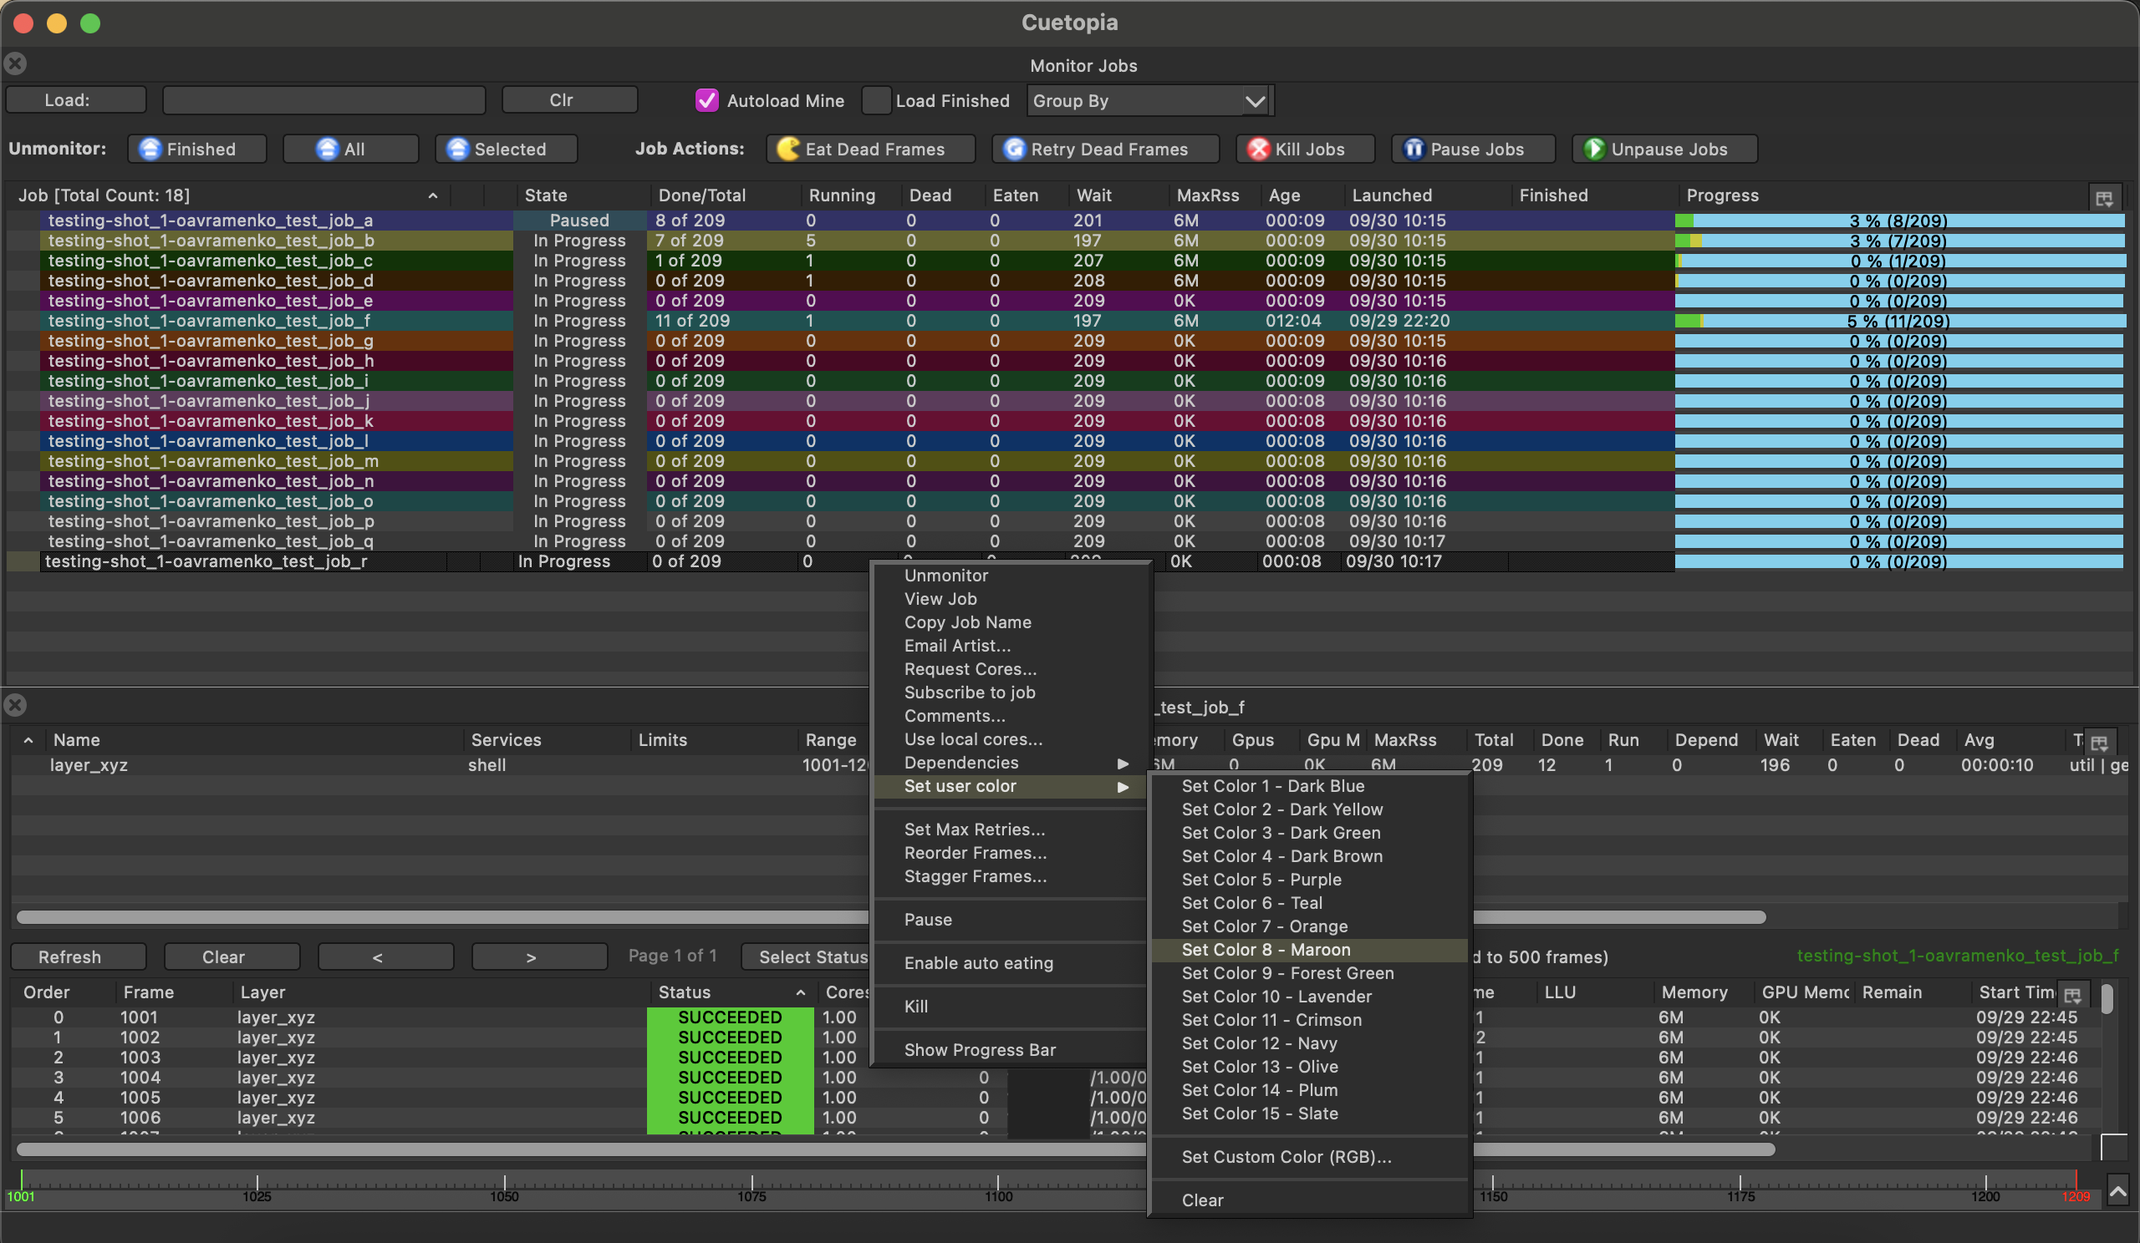
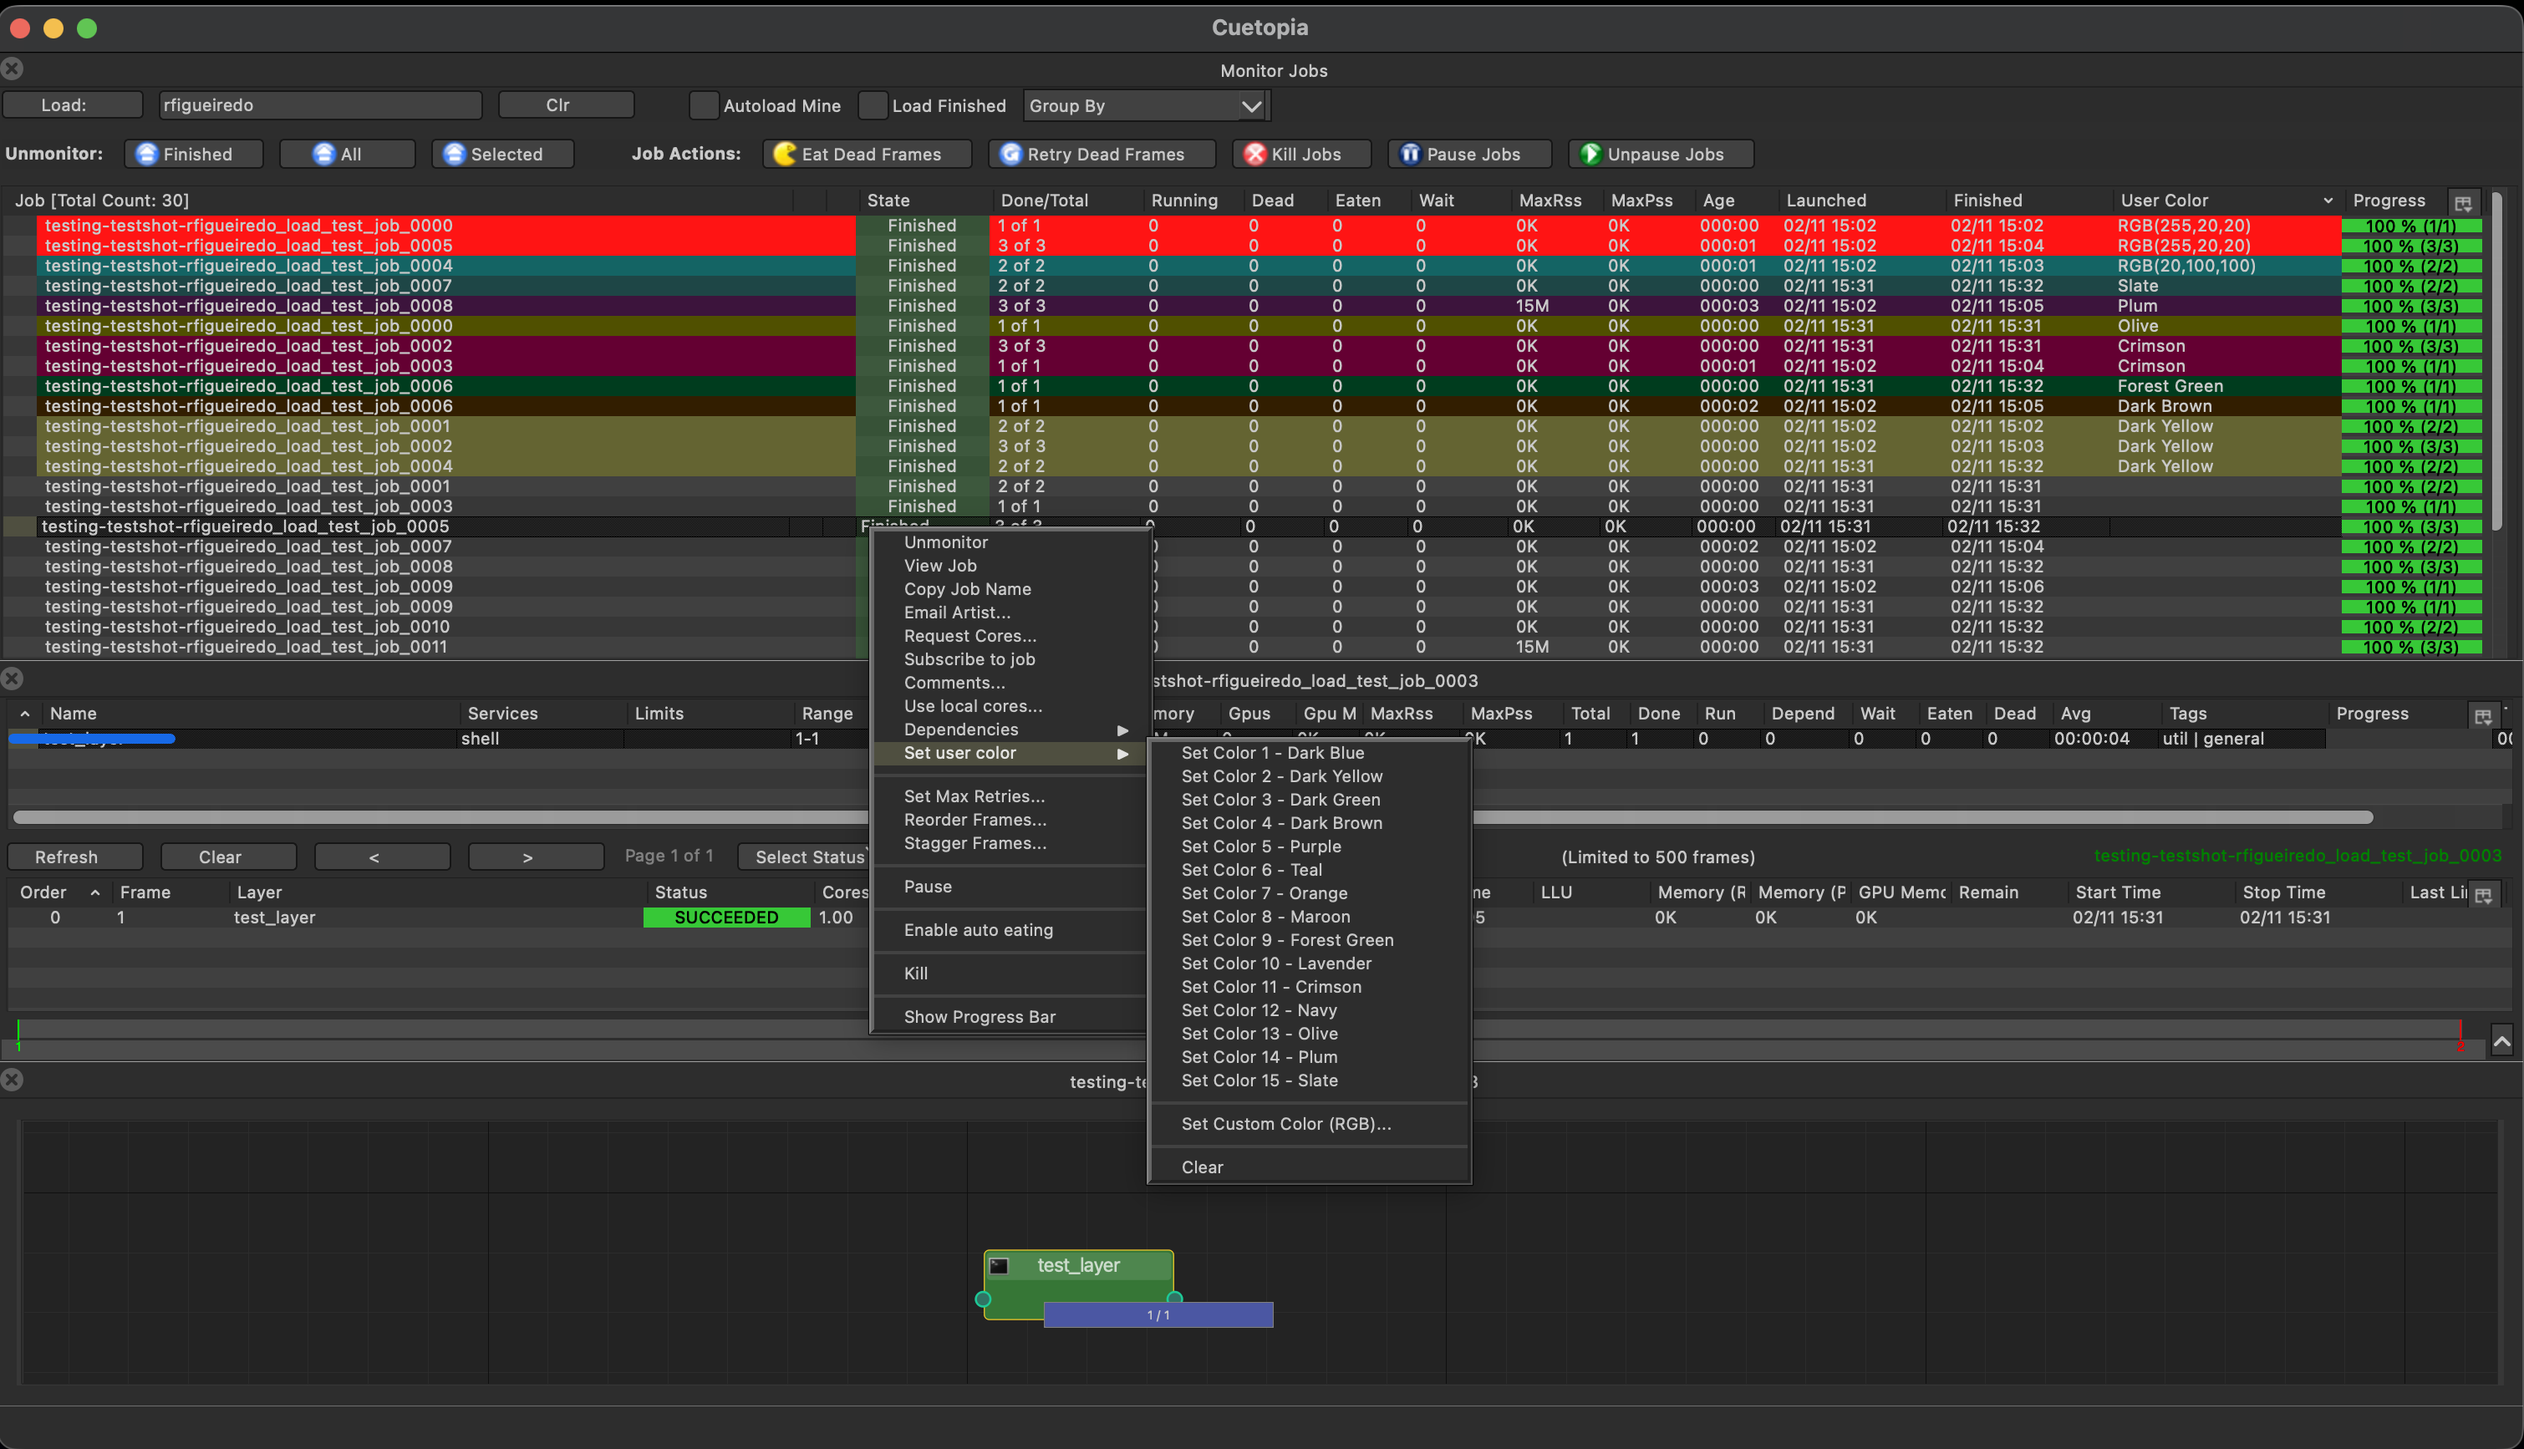
[cuegui] Add User Color sorting in Cuetopia job monitor (#2176)
**Link the Issue(s) this Pull Request is related to.**
- https://github.com/AcademySoftwareFoundation/OpenCue/issues/2177

**Summarize your change.**

Add a new sortable "User Color" column to the Job Monitor (Cuetopia)
that displays and enables sorting of jobs by their user-assigned colors.

Features:
- New "User Color" column shows preset color names or custom RGB format
- Supports all 15 preset colors (Dark Blue, Dark Yellow, Dark Green,
etc.)
- Custom colors display as "RGB(R,G,B)" (e.g., RGB(255,20,20))
- Smart sorting: uncolored jobs first > preset colors 1-15 > custom
colors
- Helper methods _getUserColorName() and _getUserColorSortKey() manage
color-to-display-name and color-to-numeric-key mappings

The User Color column appears before the Progress bar column for easy
access.

Documentation:
- Updated cuetopia-monitoring-guide.md with sorting explanation
- Added User Color column to job table columns reference
- Documented RGB format display for custom colors
- Included sort order behavior in new "Sorting by User Color" section

Updated docs images:
job_user_colors_set_user_color_with_15_color_options.png and
job_user_colors_set_user_color_with_set_custom_color.png

This allows users who frequently use "Set user color" to easily organize
and filter large job lists without manual scrolling or additional
filtering.

diff --git a/cuegui/cuegui/JobMonitorTree.py b/cuegui/cuegui/JobMonitorTree.py
@@ -93,6 +93,25 @@ class JobMonitorTree(cuegui.AbstractTreeWidget.AbstractTreeWidget):
     __groupByMode = "Clear"  # Options: "Clear", "Dependent", "Show-Shot", "Show-Shot-Username"
     view_object = QtCore.Signal(object)
 
+    # Unified color presets: RGB tuple -> (color_name, sort_key)
+    _USER_COLOR_PRESETS = {
+        (50, 50, 100): ("Dark Blue", 1),
+        (100, 100, 50): ("Dark Yellow", 2),
+        (0, 50, 0): ("Dark Green", 3),
+        (50, 30, 0): ("Dark Brown", 4),
+        (80, 0, 80): ("Purple", 5),
+        (0, 80, 80): ("Teal", 6),
+        (100, 50, 0): ("Orange", 7),
+        (70, 0, 35): ("Maroon", 8),
+        (0, 60, 30): ("Forest Green", 9),
+        (90, 60, 90): ("Lavender", 10),
+        (100, 0, 50): ("Crimson", 11),
+        (0, 50, 100): ("Navy", 12),
+        (80, 80, 0): ("Olive", 13),
+        (60, 20, 60): ("Plum", 14),
+        (30, 70, 70): ("Slate", 15),
+    }
+
     def __init__(self, parent):
         self.ticksWithoutUpdate = 0
 
@@ -171,7 +190,12 @@ class JobMonitorTree(cuegui.AbstractTreeWidget.AbstractTreeWidget):
                                          or ""),
                        sort=lambda job: job.data.stop_time,
                        tip="The time when the job ended.")
-        self.addColumn("Progress", 0, id=15,
+        self.addColumn("User Color", 100, id=15,
+                       data=lambda job: self._getUserColorName(cuegui.Utils.getObjectKey(job)),
+                       sort=lambda job: self._getUserColorSortKey(cuegui.Utils.getObjectKey(job)),
+                       tip="User-assigned color for this job.\n"
+                           "Click column header to sort by color.")
+        self.addColumn("Progress", 0, id=16,
                        delegate=cuegui.ItemDelegate.JobProgressBarDelegate,
                        tip="A visual overview of the progress of each job.\n"
                            "Green \t is succeeded\n"
@@ -214,6 +238,49 @@ class JobMonitorTree(cuegui.AbstractTreeWidget.AbstractTreeWidget):
 
         self.__load = {}
         self.startTicksUpdate(20, False, 60)
+
+    def _getUserColorName(self, objectKey):
+        """Returns the display name for a user color.
+
+        @type  objectKey: str
+        @param objectKey: The object key (e.g., "Job.abc123")
+        @rtype:  str
+        @return: Color name, "RGB(R,G,B)" for custom RGB, or empty string if no color
+        """
+        if objectKey not in self.__userColors:
+            return ""
+
+        color = self.__userColors[objectKey]
+        rgb = (color.red(), color.green(), color.blue())
+
+        if rgb in self._USER_COLOR_PRESETS:
+            return self._USER_COLOR_PRESETS[rgb][0]
+        # Return RGB format for custom colors
+        return f"RGB({rgb[0]},{rgb[1]},{rgb[2]})"
+
+    def _getUserColorSortKey(self, objectKey):
+        """Returns a numeric sort key for a user color.
+
+        Jobs without colors sort first (0), preset colors 1-15 sort in order,
+        and custom RGB colors sort last with unique keys based on RGB values.
+
+        @type  objectKey: str
+        @param objectKey: The object key (e.g., "Job.abc123")
+        @rtype:  int
+        @return: Sort key value (0=no color, 1-15=preset, 16000000+=custom with RGB)
+        """
+        if objectKey not in self.__userColors:
+            return 0
+
+        color = self.__userColors[objectKey]
+        rgb = (color.red(), color.green(), color.blue())
+
+        if rgb in self._USER_COLOR_PRESETS:
+            return self._USER_COLOR_PRESETS[rgb][1]
+        # For custom colors, create unique sort key from RGB values
+        # Base 16000000 ensures custom colors sort after preset colors (1-15)
+        # Formula: 16000000 + (R * 10000 + G * 100 + B)
+        return 16000000 + (rgb[0] * 10000 + rgb[1] * 100 + rgb[2])
 
     def tick(self):
         if self.__load:

diff --git a/docs/_docs/user-guides/cuetopia-monitoring-guide.md b/docs/_docs/user-guides/cuetopia-monitoring-guide.md
@@ -106,6 +106,7 @@ Notes:
 | **Age** | Time since job launch (HH:MM format)                                                                                                                                                | Calculated from `start_time` | Real-time |
 | **Launched** | Job launch timestamp                                                                                                                                                                | `job.data.start_time` | Static |
 | **Finished** | Job completion timestamp                                                                                                                                                            | `job.data.stop_time` | On completion |
+| **User Color** | User-assigned color name (preset or custom RGB format) | `__userColors` dictionary | On color change |
 | **Progress** | Visual progress bar                                                                                                                                                                 | Composite of all frame states | Real-time |
 
 #### Additional Columns (Hidden by Default)
@@ -148,6 +149,8 @@ Right-clicking on a job provides these actions:
 
 The Monitor Jobs view allows you to organize jobs visually by applying background colors. This feature is particularly useful when working with many concurrent renders, allowing you to group jobs by project, priority, department, or any other categorization scheme.
 
+Jobs with assigned colors are also easily sortable using the **User Color** column, making it simple to find and group all jobs of a specific color.
+
 #### Setting Job Colors
 
 To apply a color to one or more jobs:
@@ -157,6 +160,10 @@ To apply a color to one or more jobs:
 3. **Choose Color**: Navigate to "Set user color" submenu
 
 ![Set User Color Menu with 15 Options](/assets/images/cuegui/cuetopia/job_user_colors_set_user_color_with_15_color_options.png)
+
+#### Sorting by User Color
+
+Click the **User Color** column header to sort jobs by their assigned colors. Click again to reverse the sort order. This allows you to quickly organize large job lists by color, making it easy to find jobs belonging to specific projects, priorities, or departments.
 
 #### Available Color Options
 
@@ -188,6 +195,8 @@ For complete flexibility, use the **"Set Custom Color (RGB)..."** option to crea
 4. Click OK to apply the custom color
 
 ![Custom Color Dialog](/assets/images/cuegui/cuetopia/job_user_colors_set_user_color_with_set_custom_color.png)
+
+**Note**: Custom colors are displayed in the **User Color** column as "RGB(R,G,B)" format (e.g., "RGB(255,20,20)"), making it easy to identify and sort by custom color values. All jobs with the same custom RGB values will be grouped together when sorting by the User Color column.
 
 #### Color Management
 
